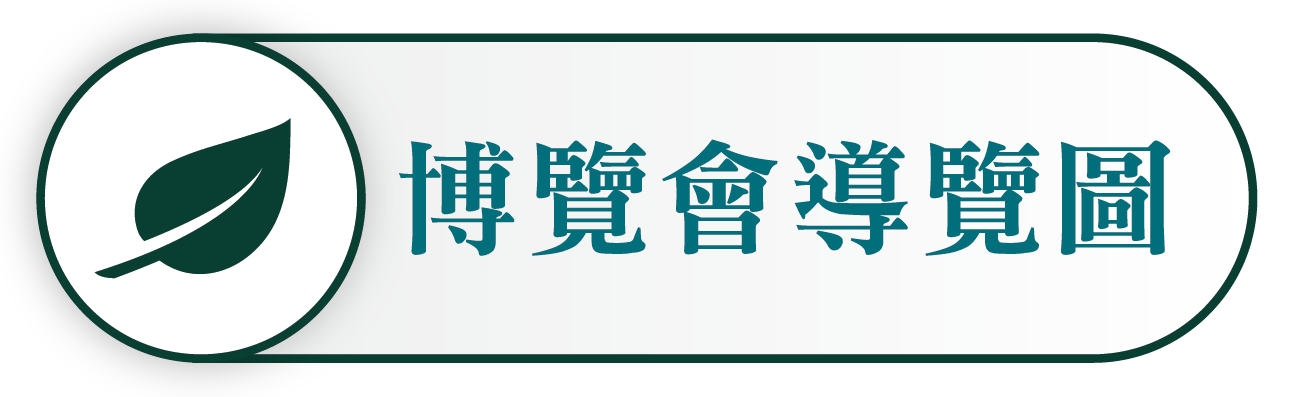
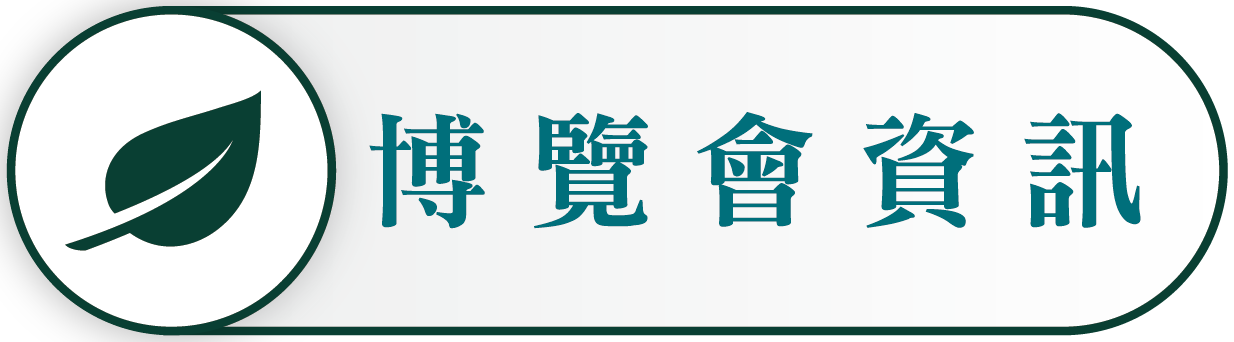
Update 2021-04-08T12:14:54.970Z

Changed region(s): [[0.0, 0.0, 1.0, 1.0]]

diff --git a/js/liff_inital_js_template_v3.js b/js/liff_inital_js_template_v3.js
@@ -1,2 +1,2 @@
-"use strict";function GetLiffId(){return"1654884078-0nYB68dJ"}function InitializeLineLiffSdk(){liff.init({liffId:GetLiffId()}).then(function(){return liff.isLoggedIn()?(console.log("login OK"),void KeepInitializeLineLiffSdk()):(alert("[Note] you're not login line now. It will turn to login page!"),Login(),!1)}).catch(function(e){alert(e.code),alert(e.message)})}function KeepInitializeLineLiffSdk(){console.log("keep");var o=liff.getOS(),i=liff.isInClient(),n=liff.isLoggedIn(),l=liff.getAccessToken(),t=liff.getDecodedIDToken(),e=liff.getContext(),s="",c="",f="",g="",d="";null!==e&&(s=e.type,e.viewType,c=e.userId,f=e.utouId,g=e.roomId,d=e.groupId);var r,a,u,I;liff.getProfile().then(function(e){r=e.userId,a=e.displayName,u=e.pictureUrl,I=e.statusMessage,console.log("profileUserId",r),console.log("profileDisplayName",a),console.log("profilePictureUrl",u),console.log("profileStatusMessage",I),console.log("os",o),console.log("isClient",i),console.log("isLoggedIn",n),console.log("userAccessToken",l),console.log("decodeedIdToken",t),console.log("contextType",s),console.log("contextUserId",c),console.log("contextUtouId",f),console.log("contextRoomId",g),console.log("contextGroupId",d)}).catch(function(e){alert(e.code),alert(e.message)})}function Login(){liff.login()}$(document).ready(function(){/Android|webOS|iPhone|iPad|iPod|BlackBerry|IEMobile|Opera Mini/i.test(navigator.userAgent)?(console.log("mobile"),InitializeLineLiffSdk()):($("#QRCode").show(),$("#mainBody").hide())});
+"use strict";var ArrLiffQueryString,EncodeQuertstring,DecodeQueryString,ArrQuertString;function GetLiffId(){return"1654884078-0nYB68dJ"}function DecondeUtf8(e){e=decodeURIComponent(e);return console.log(e),e}function GetArrQueryString(e){var o,e=e,n=[];if(-1!==e.indexOf("?")){var t=e.split("?")[1].split("&");for(i=0;i<t.length;i++)o=t[i].split("="),n.push(o[0]),n[o[0]]=o[1]}return console.log(n),n}function GetInLiffAppQuertString(){var e,o=location.search,n=[];if(-1!==o.indexOf("?")){var t=o.split("?")[1].split("&");for(i=0;i<t.length;i++)e=t[i].split("="),n.push(e[0]),n[e[0]]=e[1]}return console.log(n),n}function InitializeLineLiffSdk(e){liff.init({liffId:GetLiffId()}).then(function(){return liff.isLoggedIn()?(console.loh("login OK"),void liff.getFriendship().then(function(e){e.friendFlag?(console.log("getFriendship true"),console.log("getFriendship.data",e),console.log("getFriendship.data.friendFlag",e.friendFlag)):(console.log("getFriendship false"),console.log("getFriendship.data",e),KeepInitializeLineLiffSdk())}).catch(function(e){alert(e.code),alert(e.message)})):(alert("[Note] you're not login line now. It will turn to login page!"),Login(),!1)}).catch(function(e){alert(e.code),alert(e.message)})}function KeepInitializeLineLiffSdk(){console.loh("keep");var o=liff.getOS(),i=liff.isInClient(),n=liff.isLoggedIn(),t=liff.getAccessToken(),l=liff.getDecodedIDToken(),e=liff.getContext(),r="",s="",f="",c="",g="";null!==e&&(r=e.type,e.viewType,s=e.userId,f=e.utouId,c=e.roomId,g=e.groupId);var d,u,a,p;liff.getProfile().then(function(e){d=e.userId,u=e.displayName,a=e.pictureUrl,p=e.statusMessage,console.log("profileUserId",d),console.log("profileDisplayName",u),console.log("profilePictureUrl",a),console.log("profileStatusMessage",p),console.log("os",o),console.log("isClient",i),console.log("isLoggedIn",n),console.log("userAccessToken",t),console.log("decodeedIdToken",l),console.log("contextType",r),console.log("contextUserId",s),console.log("contextUtouId",f),console.log("contextRoomId",c),console.log("contextGroupId",g)}).catch(function(e){alert(e.code),alert(e.message)})}function Login(){liff.login()}$(document).ready(function(){/Android|webOS|iPhone|iPad|iPod|BlackBerry|IEMobile|Opera Mini/i.test(navigator.userAgent)?(console.log("mobile"),InitializeLineLiffSdk(),ArrLiffQueryString=GetInLiffAppQuertString(),EncodeQuertstring=ArrLiffQueryString["liff.state"],DecodeQueryString=DecondeUtf8(EncodeQuertstring),ArrQuertString=GetArrQueryString(DecodeQueryString)):($("#QRCode").show(),$("#mainBody").hide())});
 //# sourceMappingURL=liff_inital_js_template_v3.js.map

diff --git a/index.html b/index.html
@@ -22,8 +22,8 @@
         <figure><img src="./images/load.svg"></figure>
       </div>
       <article class="index-page"><a class="btn" href="./checkin.html"> 
-          <figure><img src="./images/btn01.png"></figure></a><a class="btn" href="./guided.html"> 
-          <figure><img src="./images/btn02.png"></figure></a><a class="btn" href="./flowchart.html"> 
+          <figure><img src="./images/btn01.png"></figure></a><a class="btn" href="./info.html"> 
+          <figure><img src="./images/btn02.png"></figure></a><a class="btn" href="./search.html"> 
           <figure><img src="./images/btn03.png"></figure></a></article>
       <footer>
         <figure class="main-pic"><img src="./images/main.png"></figure>
